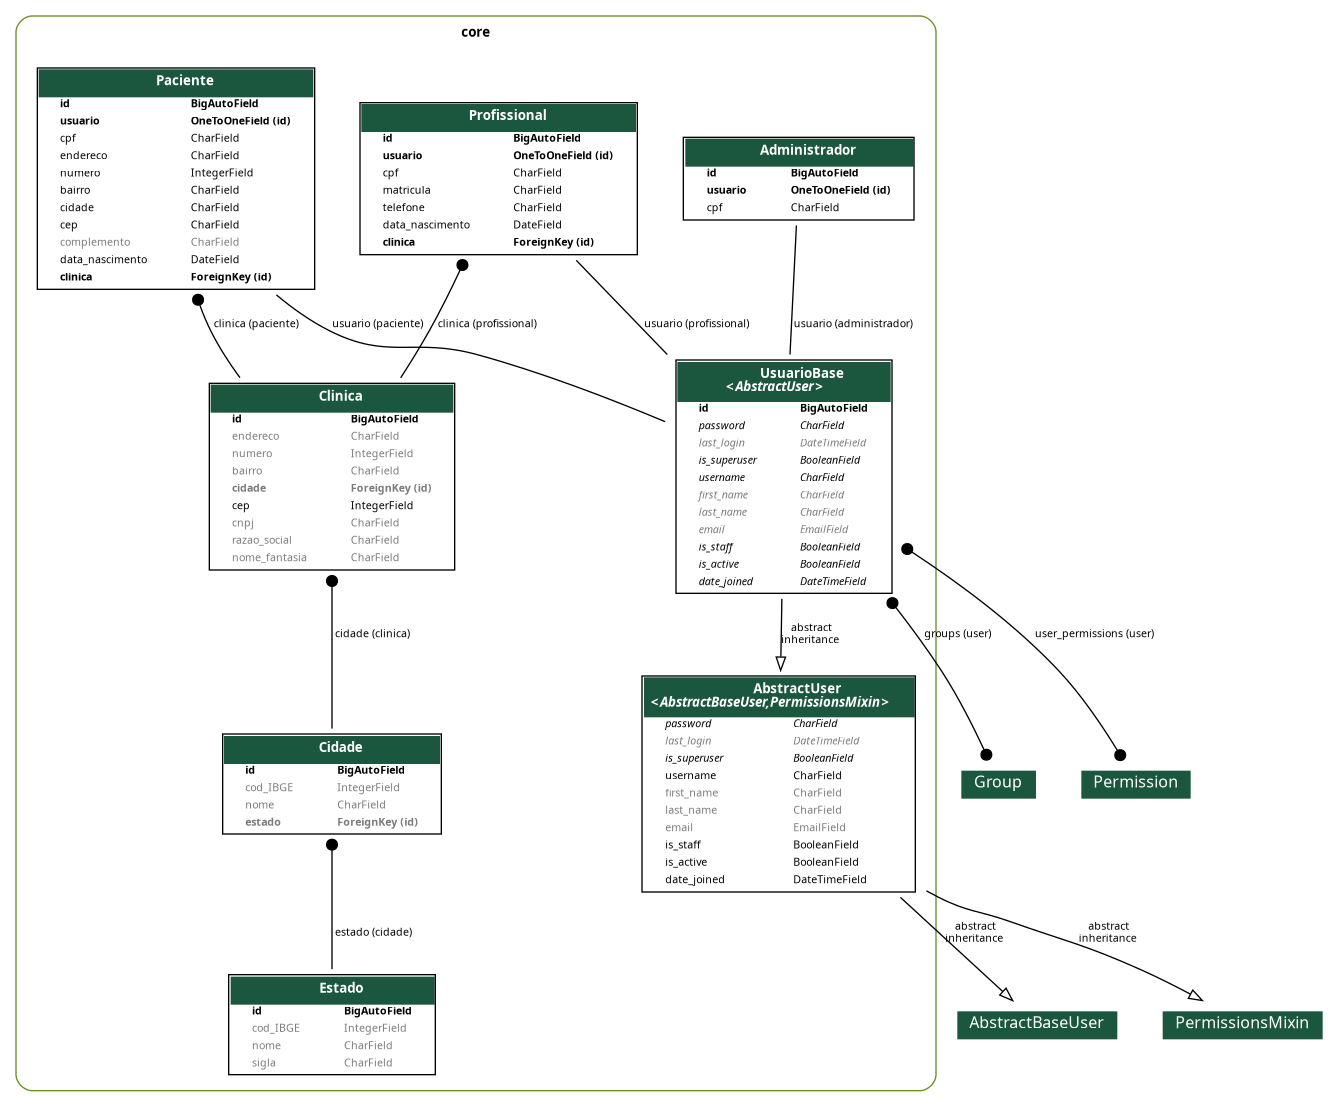
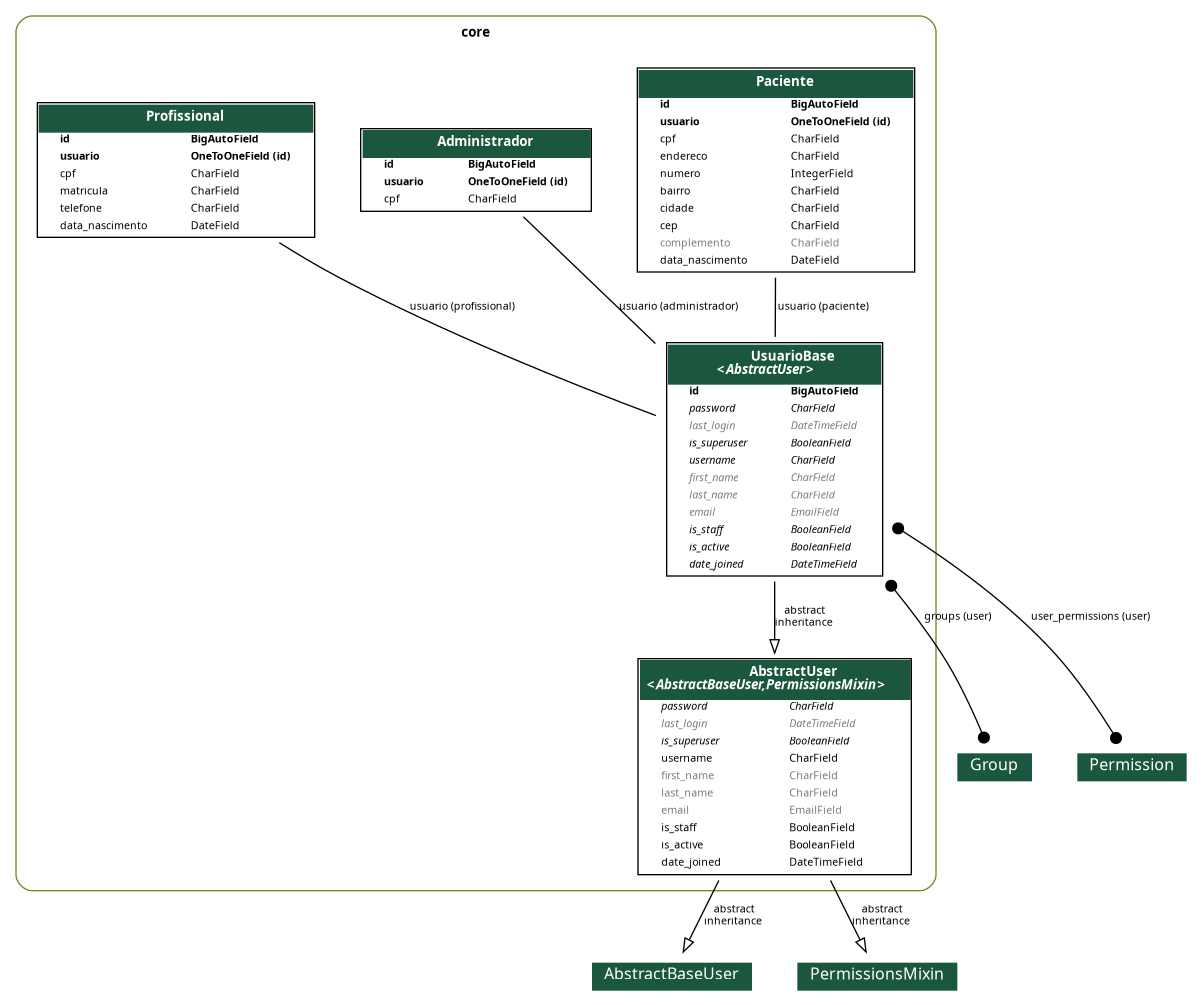
FEAT: remover campos e modelos de Cidade, Clinica e Estado; atualizar modelos de Paciente e Profissional #27

diff --git a/core/migrations/0002_remove_clinica_cidade_remove_paciente_clinica_and_more.py b/core/migrations/0002_remove_clinica_cidade_remove_paciente_clinica_and_more.py
@@ -1,0 +1,34 @@
+# Generated by Django 4.2.23 on 2025-10-09 11:30
+
+from django.db import migrations
+
+
+class Migration(migrations.Migration):
+
+    dependencies = [
+        ('core', '0001_initial'),
+    ]
+
+    operations = [
+        migrations.RemoveField(
+            model_name='clinica',
+            name='cidade',
+        ),
+        migrations.RemoveField(
+            model_name='paciente',
+            name='clinica',
+        ),
+        migrations.RemoveField(
+            model_name='profissional',
+            name='clinica',
+        ),
+        migrations.DeleteModel(
+            name='Cidade',
+        ),
+        migrations.DeleteModel(
+            name='Clinica',
+        ),
+        migrations.DeleteModel(
+            name='Estado',
+        ),
+    ]

diff --git a/core/models/profissional.py b/core/models/profissional.py
@@ -1,5 +1,4 @@
 from django.db import models
-from .clinica import Clinica
 from .user import UsuarioBase
 
 class Profissional(models.Model):

diff --git a/core/models/paciente.py b/core/models/paciente.py
@@ -1,5 +1,4 @@
 from django.db import models
-from .clinica import Clinica
 from .user import UsuarioBase
 
 class Paciente(models.Model):
